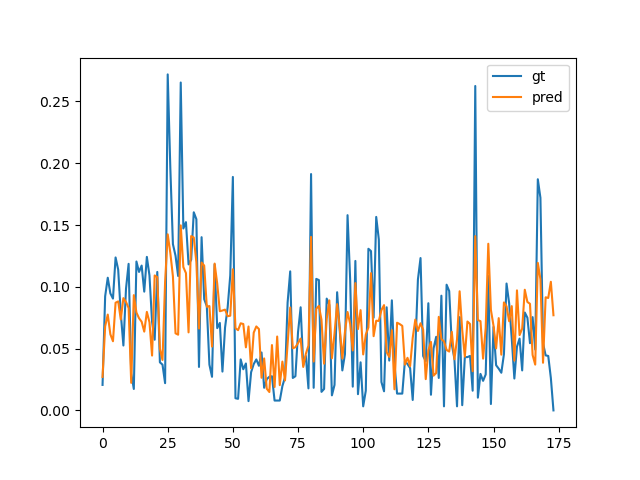
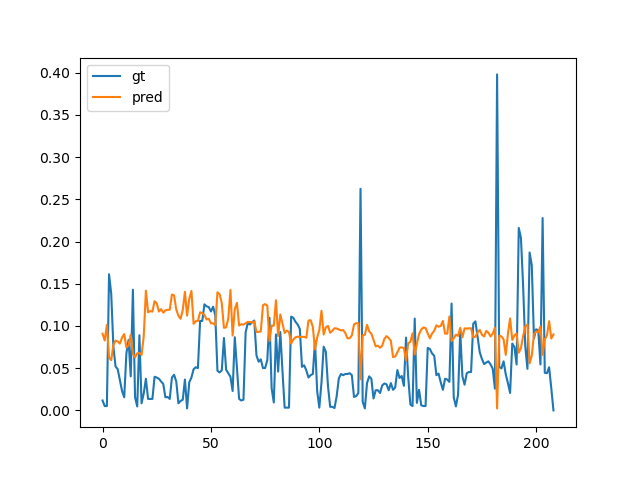
add models and features

diff --git a/main_chl.py b/main_chl.py
@@ -1,9 +1,10 @@
 import pandas as pd
 from sklearn.model_selection import KFold
 from sklearn.preprocessing import MinMaxScaler
-from common import seed_everything, run_xgboost, run_stacking, run_dl, run_stacking_v2, split_data
+from common import seed_everything, split_data
 import warnings
 import numpy as np
+import importlib
 warnings.filterwarnings(action="ignore", message=r'.*Use subset.*of np.ndarray is not recommended')
 
 def append_result(model, mae_train, r2_train, mae_test, r2_test):
@@ -12,45 +13,53 @@ def append_result(model, mae_train, r2_train, mae_test, r2_test):
     results[model]["mae_test"].append(mae_test)
     results[model]["r2_test"].append(r2_test)
 
+def get_engine(model):
+    package = importlib.import_module('common')
+    model_engine = getattr(package, "run_{}".format(model))
+    return model_engine
+
 if __name__ == "__main__":
     seed_everything(42)
-    dataset = pd.read_csv('data/clo.csv', usecols=["Water Temp.","pH","DO","DOC","BOD5","CODMn","DTN","DTP","EC","SS", "C1", "C2", "C3", "Chl-a"])
-    dataset = dataset.dropna()
-    scaler = MinMaxScaler()
-    scaler = scaler.fit(dataset)
-    dataset = scaler.transform(dataset)
+    list_features = {"water": ["Water Temp.","pH","DO","DOC","BOD5","CODMn","DTN","DTP","EC","SS","Chl-a"],
+    "water_optics": ["Water Temp.","pH","DO","DOC","BOD5","CODMn","DTN","DTP","EC","SS", "C1","C2","C3","Chl-a"],
+    "uv": ["UV254","E250/E365","E350/E400","S275-295","S350-400","SR","Chl-a"],
+    "uv_optics": ["UV254","E250/E365","E350/E400","S275-295","S350-400","SR","C1","C2","C3","Chl-a"],
+    "fluorescence": ["FI450","FI470","BIX","HIX","Chl-a"],
+    "fluorescence_optics": ["FI450","FI470","BIX","HIX","C1","C2","C3","Chl-a"],
+    "all": ["Water Temp.","pH","DO","DOC","BOD5","CODMn","DTN","DTP","EC","SS","Chl-a","UV254","E250/E365","E350/E400","S275-295","S350-400","SR", "FI450","FI470","BIX","HIX","Chl-a"],
+    "all_optics": ["Water Temp.","pH","DO","DOC","BOD5","CODMn","DTN","DTP","EC","SS","Chl-a","UV254","E250/E365","E350/E400","S275-295","S350-400","SR", "FI450","FI470","BIX","HIX","C1","C2","C3","Chl-a"],
+    "optics": ["C1","C2","C3","Chl-a"]}
+    models = ["deeplearning"]
+    final_result = pd.DataFrame()
+    final_result["model"] = models
+    use_kfold = False
+    for case, features in list_features.items():
+        dataset = pd.read_csv('data/clo.csv', usecols=features)
+        dataset = dataset.dropna()
+        scaler = MinMaxScaler()
+        scaler = scaler.fit(dataset)
+        dataset = scaler.transform(dataset)
 
-    use_kfold = True
-    if use_kfold:
-        kfold = KFold(3, random_state=42, shuffle=True)
-        results = {"xgboost": {"mae_train": [], "r2_train": [], "mae_test": [], "r2_test": []}, 
-        "deeplearning": {"mae_train": [], "r2_train": [], "mae_test": [], "r2_test": []}, 
-        "stacking": {"mae_train": [], "r2_train": [], "mae_test": [], "r2_test": []}}
-        for train_indexes, test_indexes in kfold.split(dataset):
-            train_data = dataset[train_indexes]
-            test_data = dataset[test_indexes]
-            X_train = train_data[:, :-1]
-            y_train = train_data[:, -1]
-            X_test = test_data[:, :-1]
-            y_test = test_data[:, -1]
-            # mae_train_xgb, r2_train_xgb, mae_test_xgb, r2_test_xgb = run_xgboost(X_train, y_train, X_test, y_test, scaler)
-            # append_result("xgboost", mae_train_xgb, r2_train_xgb, mae_test_xgb, r2_test_xgb)
-            # mae_train_dl, r2_train_dl, mae_test_dl, r2_test_dl = run_dl(X_train, y_train, X_test, y_test, scaler)
-            # append_result("deeplearning", mae_train_dl, r2_train_dl, mae_test_dl, r2_test_dl)
-            mae_train_stacking, r2_train_stacking, mae_test_stacking, r2_test_stacking = run_stacking_v2(X_train, y_train, X_test, y_test, scaler)
-            append_result("stacking", mae_train_stacking, r2_train_stacking, mae_test_stacking, r2_test_stacking )
-    else:
-        X_train, y_train, X_valid, y_valid, X_test, y_test, scaler = split_data(dataset)
-        mae_train_xgb, r2_train_xgb, mae_test_xgb, r2_test_xgb = run_xgboost(X_train, y_train, X_test, y_test, scaler)
-        append_result("xgboost", mae_train_xgb, r2_train_xgb, mae_test_xgb, r2_test_xgb)
-        mae_train_dl, r2_train_dl, mae_test_dl, r2_test_dl = run_dl(X_train, y_train, X_test, y_test, scaler)
-        append_result("deeplearning", mae_train_dl, r2_train_dl, mae_test_dl, r2_test_dl)
-        mae_train_stacking, r2_train_stacking, mae_test_stacking, r2_test_stacking = run_stacking_v2(X_train, y_train, X_test, y_test, scaler)
-        append_result("stacking", mae_train_stacking, r2_train_stacking, mae_test_stacking, r2_test_stacking )
-    for model in results:
-        print("Model: ", model)
-        print("mae_train: {}".format(np.mean(results[model]["mae_train"])))
-        print("mae_test: {}".format(np.mean(results[model]["mae_test"])))
-        print("r2_train: {}".format(np.mean(results[model]["r2_train"])))
-        print("r2_test: {}".format(np.mean(results[model]["r2_test"])))
-        print()
+        results = {model: {"mae_train": [], "r2_train": [], "mae_test": [], "r2_test": []} for model in models}
+        if use_kfold:
+            kfold = KFold(3, random_state=42, shuffle=True)
+            for train_indexes, test_indexes in kfold.split(dataset):
+                train_data = dataset[train_indexes]
+                test_data = dataset[test_indexes]
+                X_train = train_data[:, :-1]
+                y_train = train_data[:, -1]
+                X_test = test_data[:, :-1]
+                y_test = test_data[:, -1]
+                for model in models:
+                    mae_train, r2_train, mae_test, r2_test = get_engine(model)(X_train, y_train, X_test, y_test, scaler)
+                    append_result(model, mae_train, r2_train, mae_test, r2_test)
+        else:
+            X_train, y_train, X_valid, y_valid, X_test, y_test, scaler = split_data(dataset)
+            for model in models:
+                mae_train, r2_train, mae_test, r2_test = get_engine(model)(X_train, y_train, X_test, y_test, scaler)
+                append_result(model, mae_train, r2_train, mae_test, r2_test)
+        r2_test = []
+        for model in results:
+            r2_test.append(np.mean(results[model]["r2_test"]))
+        final_result[case] = r2_test
+    final_result.to_csv("final_result.csv", index=False)

diff --git a/common.py b/common.py
@@ -29,7 +29,7 @@ def run_xgboost(X_train, y_train, X_test, y_test, scaler):
     mae_test, r2_test = evaluate(scaler, y_test, test_results, "xgboost", "test")
     return mae_train, r2_train, mae_test, r2_test
 
-def run_dl(X_train, y_train, X_test, y_test, scaler):
+def run_deeplearning(X_train, y_train, X_test, y_test, scaler):
     X_train = torch.Tensor(X_train)
     y_train = torch.Tensor(y_train)
     X_test = torch.Tensor(X_test)
@@ -75,37 +75,37 @@ def run_dl(X_train, y_train, X_test, y_test, scaler):
         mae_test, r2_test = evaluate(scaler, y_test, test_results, "dl", "test")
     return mae_train, r2_train, mae_test, r2_test
 
+# def run_stacking(X_train, y_train, X_test, y_test, scaler):
+#     from sklearn.linear_model import RidgeCV
+#     from sklearn.svm import LinearSVR
+#     from sklearn.ensemble import RandomForestRegressor
+#     from sklearn.ensemble import StackingRegressor
+#     from sklearn.ensemble import GradientBoostingRegressor
+#     from sklearn.linear_model import LinearRegression
+#     from sklearn.neighbors import KNeighborsRegressor
+#     from sklearn.tree import DecisionTreeRegressor
+#     estimators = [
+#         ('lr', RidgeCV()),
+#         ('svr', LinearSVR(random_state=42)),
+#         ('rf', RandomForestRegressor(random_state=42)),
+#         ('knearest', KNeighborsRegressor()),
+#         ('dt', DecisionTreeRegressor(random_state=42)),
+#         ('xgb', GradientBoostingRegressor(random_state=42))
+#     ]
+#     model = StackingRegressor(
+#         estimators=estimators,
+#         final_estimator=LinearRegression()
+#     )
+#     model.fit(X_train, y_train)
+
+#     train_results = model.predict(X_train)
+#     mae_train, r2_train = evaluate(scaler, y_train, train_results, "stacking", "train")
+
+#     test_results = model.predict(X_test)
+#     mae_test, r2_test = evaluate(scaler, y_test, test_results, "stacking", "test")
+#     return mae_train, r2_train, mae_test, r2_test
+
 def run_stacking(X_train, y_train, X_test, y_test, scaler):
-    from sklearn.linear_model import RidgeCV
-    from sklearn.svm import LinearSVR
-    from sklearn.ensemble import RandomForestRegressor
-    from sklearn.ensemble import StackingRegressor
-    from sklearn.ensemble import GradientBoostingRegressor
-    from sklearn.linear_model import LinearRegression
-    from sklearn.neighbors import KNeighborsRegressor
-    from sklearn.tree import DecisionTreeRegressor
-    estimators = [
-        ('lr', RidgeCV()),
-        ('svr', LinearSVR(random_state=42)),
-        ('rf', RandomForestRegressor(random_state=42)),
-        ('knearest', KNeighborsRegressor()),
-        ('dt', DecisionTreeRegressor(random_state=42)),
-        ('xgb', GradientBoostingRegressor(random_state=42))
-    ]
-    model = StackingRegressor(
-        estimators=estimators,
-        final_estimator=LinearRegression()
-    )
-    model.fit(X_train, y_train)
-
-    train_results = model.predict(X_train)
-    mae_train, r2_train = evaluate(scaler, y_train, train_results, "stacking", "train")
-
-    test_results = model.predict(X_test)
-    mae_test, r2_test = evaluate(scaler, y_test, test_results, "stacking", "test")
-    return mae_train, r2_train, mae_test, r2_test
-
-def run_stacking_v2(X_train, y_train, X_test, y_test, scaler):
     from sklearn.linear_model import ElasticNet, Lasso
     from sklearn.ensemble import RandomForestRegressor,  GradientBoostingRegressor
     from sklearn.base import BaseEstimator, TransformerMixin, RegressorMixin, clone
